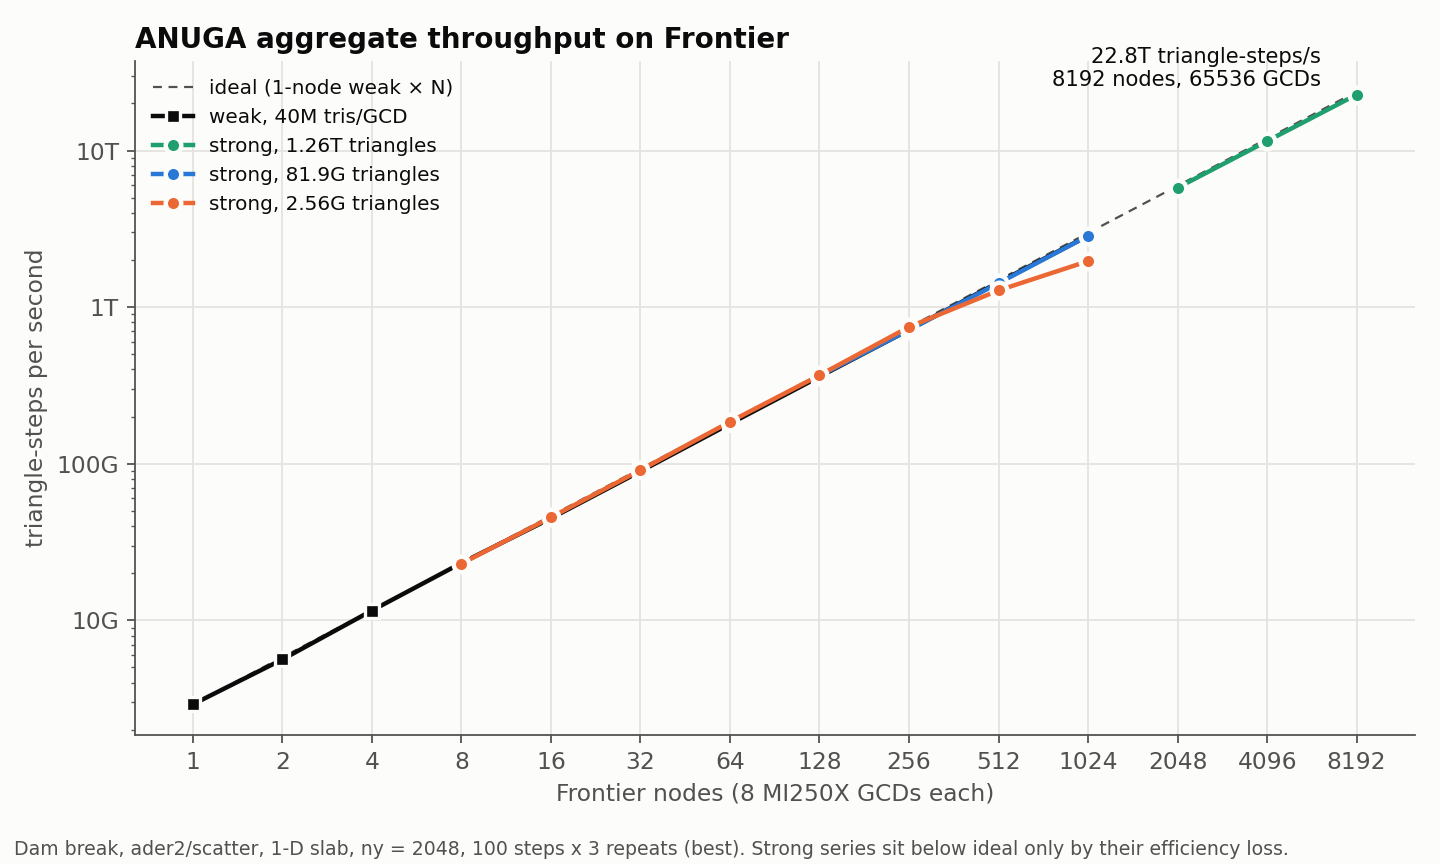
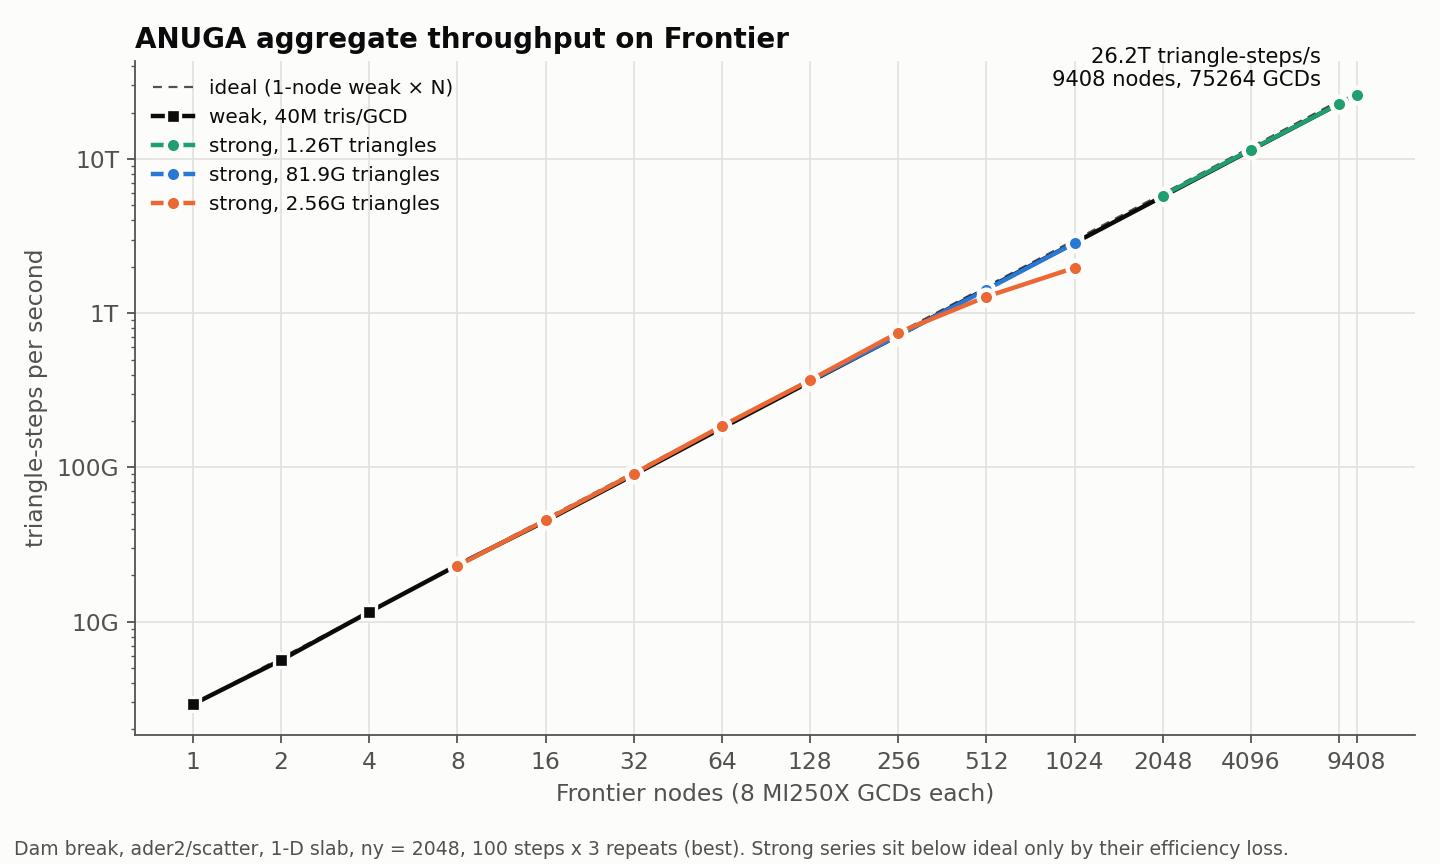
Frontier full machine: 9408 nodes strong 98.4%, weak 95.8% on 3.01T triangles
The 9408-node job (75264 GCDs) completed cleanly. Strong on 1.263T triangles:
48.3 ms/step, 4.52x of the ideal 4.59x over 2048 nodes (98.4%). Weak at
40M tris/GCD (3.01T triangles): 114.9 ms/step, 95.8% of 1 node, the same
as at 1024 nodes. Peak 26.2T triangle-steps/s. Plots re-rendered with
thinned node tick labels, the ideal-speedup annotation fixed for non-power-of-2
counts, and the weak plot no longer marked preliminary.

diff --git a/standalone/logbook/plot_weak_frontier.py b/standalone/logbook/plot_weak_frontier.py
@@ -21,12 +21,21 @@ BLUE, ORANGE, AQUA = "#2a78d6", "#eb6834", "#1baf7a"
 INK, INK2, GRID, SURF = "#0b0b0b", "#52514e", "#e4e3df", "#fcfcfb"
 plt.rcParams.update({"font.size": 10.5, "axes.edgecolor": INK2, "axes.labelcolor": INK2,
                      "xtick.color": INK2, "ytick.color": INK2, "font.family": "DejaVu Sans"})
+def thin(ticks, r):
+    """Node-count labels, dropping any within a factor r of the next kept one (right to left)."""
+    keep, last = set(), None
+    for t in sorted(ticks, reverse=True):
+        if last is None or last / t >= r:
+            keep.add(t); last = t
+    return FuncFormatter(lambda v, _: "%d" % v if round(v) in keep else "")
+
+
 fig, (a, b) = plt.subplots(1, 2, figsize=(12, 4.8), gridspec_kw={"width_ratios": [1.6, 1]},
                            facecolor=SURF)
 for ax in (a, b):
     ax.set_facecolor(SURF); ax.set_xscale("log", base=2)
     ax.xaxis.set_major_locator(FixedLocator(nodes))
-    ax.xaxis.set_major_formatter(FuncFormatter(lambda v, _: "%d" % v))
+    ax.xaxis.set_major_formatter(thin(nodes, 1.3 if ax is a else 3.5))
     ax.xaxis.set_minor_locator(FixedLocator([]))
     ax.grid(axis="y", color=GRID, lw=0.8); ax.set_axisbelow(True)
     for s in ("top", "right"): ax.spines[s].set_visible(False)
@@ -40,13 +49,13 @@ a.scatter([r[0] for r in rows], [base / r[1] for r in rows], s=46, color=BLUE,
           edgecolor=SURF, linewidth=2, zorder=3)
 a.set_ylim(0.80, 1.03); a.set_ylabel("weak-scaling efficiency  (t₁ / tₙ)")
 last = nodes[-1]
-a.annotate("%.1f%%\n%d GCDs, %.0fG triangles\n%.1f ms/step" % (100 * base / mean[last], 8 * last,
-           tris[last] / 1e9, mean[last]), (last, base / mean[last]), xytext=(-8, -58),
+a.annotate("%.1f%%\n%d GCDs, %s triangles\n%.1f ms/step" % (100 * base / mean[last], 8 * last,
+           ("%.3gT" % (tris[last] / 1e12)) if tris[last] >= 1e12 else ("%.0fG" % (tris[last] / 1e9)), mean[last]), (last, base / mean[last]), xytext=(-8, -58),
            textcoords="offset points", ha="right", color=INK, fontsize=9.5,
            arrowprops=dict(arrowstyle="-", color=INK2, lw=0.8))
 a.annotate("1 node: %.1f ms/step\n40M triangles / GCD" % base, (1, 1.0), xytext=(4, -150),
            textcoords="offset points", color=INK, fontsize=9.5)
-a.set_title("ANUGA weak scaling on Frontier (preliminary)", loc="left", color=INK,
+a.set_title("ANUGA weak scaling on Frontier", loc="left", color=INK,
             fontsize=12.5, fontweight="bold")
 
 # (b) overheads

diff --git a/standalone/logbook/plot_strong_frontier.py b/standalone/logbook/plot_strong_frontier.py
@@ -18,6 +18,15 @@ for f in sorted(glob.glob(R + "/frontier_strong/n*/*/scaling_frontier.csv") +
 mean = {t: {n: sum(v) / len(v) for n, v in d.items()} for t, d in series.items()}
 order = sorted(mean, reverse=True)            # largest mesh first = series 1
 
+
+def thin(ticks, r):
+    """Node-count labels, dropping any within a factor r of the next kept one (right to left)."""
+    keep, last = set(), None
+    for t in sorted(ticks, reverse=True):
+        if last is None or last / t >= r:
+            keep.add(t); last = t
+    return FuncFormatter(lambda v, _: "%d" % v if round(v) in keep else "")
+
 BLUE, ORANGE, GREEN = "#2a78d6", "#eb6834", "#1f9e6e"
 INK, INK2, GRID, SURF = "#0b0b0b", "#52514e", "#e4e3df", "#fcfcfb"
 COL = dict(zip(order, (GREEN, BLUE, ORANGE)))
@@ -29,7 +38,7 @@ allnodes = sorted({n for t in mean for n in mean[t]})
 for ax in (a, b):
     ax.set_facecolor(SURF); ax.set_xscale("log", base=2)
     ax.xaxis.set_major_locator(FixedLocator(allnodes))
-    ax.xaxis.set_major_formatter(FuncFormatter(lambda v, _: "%d" % v))
+    ax.xaxis.set_major_formatter(thin(allnodes, 1.3 if ax is a else 3.5))
     ax.xaxis.set_minor_locator(NullLocator())
     ax.grid(axis="y", color=GRID, lw=0.8); ax.set_axisbelow(True)
     for s in ("top", "right"): ax.spines[s].set_visible(False)
@@ -53,7 +62,7 @@ for t in order:
     sp = [t0 / mean[t][n] for n in ns]
     a.plot(ns, sp, color=COL[t], lw=2, marker="o", ms=7, mec=SURF, mew=2, zorder=3,
            label="%s  (ref. %d nodes)" % (label(t), n0))
-    a.annotate("%.1f× (ideal %d×)" % (sp[-1], ns[-1] // n0), (ns[-1], sp[-1]),
+    a.annotate("%.1f× (ideal %.3g×)" % (sp[-1], ns[-1] / n0), (ns[-1], sp[-1]),
                xytext=(-10, -4), textcoords="offset points", ha="right", va="top",
                color=INK, fontsize=9.5)
 tl = max(order, key=lambda t: max(mean[t]) / min(mean[t]))   # longest ideal line

diff --git a/standalone/logbook/plot_throughput_frontier.py b/standalone/logbook/plot_throughput_frontier.py
@@ -20,6 +20,15 @@ for f in sorted(files):
             float(r["mcellsteps_per_s"]) * 1e6)
 best = {k: {n: max(v) for n, v in d.items()} for k, d in series.items()}
 
+
+def thin(ticks, r):
+    """Node-count labels, dropping any within a factor r of the next kept one (right to left)."""
+    keep, last = set(), None
+    for t in sorted(ticks, reverse=True):
+        if last is None or last / t >= r:
+            keep.add(t); last = t
+    return FuncFormatter(lambda v, _: "%d" % v if round(v) in keep else "")
+
 BLUE, ORANGE, GREEN, INKC = "#2a78d6", "#eb6834", "#1f9e6e", "#0b0b0b"
 INK, INK2, GRID, SURF = "#0b0b0b", "#52514e", "#e4e3df", "#fcfcfb"
 plt.rcParams.update({"font.size": 10.5, "axes.edgecolor": INK2, "axes.labelcolor": INK2,
@@ -29,7 +38,7 @@ ax.set_facecolor(SURF)
 allnodes = sorted({n for d in best.values() for n in d})
 ax.set_xscale("log", base=2); ax.set_yscale("log", base=10)
 ax.xaxis.set_major_locator(FixedLocator(allnodes))
-ax.xaxis.set_major_formatter(FuncFormatter(lambda v, _: "%d" % v))
+ax.xaxis.set_major_formatter(thin(allnodes, 1.3))
 ax.xaxis.set_minor_locator(NullLocator())
 ax.grid(color=GRID, lw=0.8); ax.set_axisbelow(True)
 for s in ("top", "right"): ax.spines[s].set_visible(False)

diff --git a/standalone/logbook/LOGBOOK.md b/standalone/logbook/LOGBOOK.md
@@ -156,10 +156,10 @@ Efficiency = (t_ref · N_ref) / (t_N · N).
   `benchmarks/results/frontier_strong/n*/*/scaling_frontier.csv`). Current renders:
   `logbook/weak_frontier.png`, `logbook/strong_frontier.png`.
 
-### 2026-10-06 — full-machine strong scaling (jobs 5629157–5629159)
+### 2026-10-06 — full machine: strong to 9408 nodes, weak at 9408 (jobs 5629157–5629160)
 
 Strong scaling on 1.263T triangles (nx = 154140672, ny = 2048), reference 2048 nodes.
-All three jobs COMPLETED with exit 0 and status `ok`: 0 NaNs, volume drift <= 2.1e-16.
+All four jobs COMPLETED with exit 0 and status `ok`: 0 NaNs, volume drift <= 2.1e-16.
 The 2048- and 4096-node jobs started at 19:46, ahead of the 2026-10-07 estimate.
 
 | nodes | ranks | tris/GCD | GiB/GCD | ms/step | halo ms | dt ms | speedup | eff. | elapsed | node-h |
@@ -167,20 +167,25 @@ The 2048- and 4096-node jobs started at 19:46, ahead of the 2026-10-07 estimate.
 | 2048 | 16384 | 77.1M | 35.0 | 218.13 | 2.04 | 25.3 | 1.00x | — | 2:16 | 77 |
 | 4096 | 32768 | 38.5M | 17.5 | 109.88 | 1.38 | 14.8 | 1.99x | 99.3% | 1:30 | 102 |
 | 8192 | 65536 | 19.3M | 8.8  | 55.47  | 0.70 | 8.1  | 3.93x | 98.3% | 1:55 | 262 |
+| 9408 | 75264 | 16.8M | 7.6  | 48.28  | 0.87 | 7.4  | 4.52x of 4.59x | 98.4% | 4:33 (incl. weak) | 713 |
 
-- Peak aggregate throughput: 22.8T triangle-steps/s on 8192 nodes (65536 GCDs).
+Weak at 9408 nodes (75264 GCDs, 40M tris/GCD, 3.01T triangles): 114.87 ms/step.
+That is **95.8%** of the 1-node 110.08 ms, the same as 1024 nodes (114.71 ms, 96.0%).
+The dt allreduce grows to 16.2 ms and halo to 1.5 ms, while kernels stay at 114.8 ms.
+
+- Peak aggregate throughput: 26.2T triangle-steps/s on 9408 nodes, from both the strong
+  (1.26T) and the weak (3.01T) run.
 - Per-GCD rate lines up with the smaller meshes: 77M tris/GCD runs at 218 ms, against
   224.8 ms for 80M/GCD on the 81.9G mesh.
-- The batch cost about 440 node-h, well under the ~495–635 estimated.
-- Still queued: `full_n9408.sl` (5629160; strong + weak 3.01T at 40M/GCD). On
-  2026-10-06 20:16 Slurm estimated a 20:54 start. `full_n9216.sl` was never
-  submitted and is now only a fallback.
+- The whole batch cost about 1150 node-h. The 9408-node job started at 20:43.
+  `full_n9216.sl` was never submitted and is no longer needed.
 - Scripts are in `benchmarks/results/frontier_full/jobs/`. Results are in
   `benchmarks/results/frontier_full/n*/{strong,weak}/scaling_frontier.csv`.
 - Plots: `plot_strong_frontier.py` and `plot_weak_frontier.py` now also read
   `frontier_full/`. The new `plot_throughput_frontier.py out.png` draws every weak and strong
   run as aggregate triangle-steps/s against the 1-node-weak × N ideal.
-  Renders: `logbook/strong_frontier.png` and `logbook/throughput_frontier.png`.
+  Renders: `logbook/{strong,weak,throughput}_frontier.png`. Node-count tick labels are thinned
+  so 8192 and 9408 don't collide.
 
 ### Caveats for the paper
 
